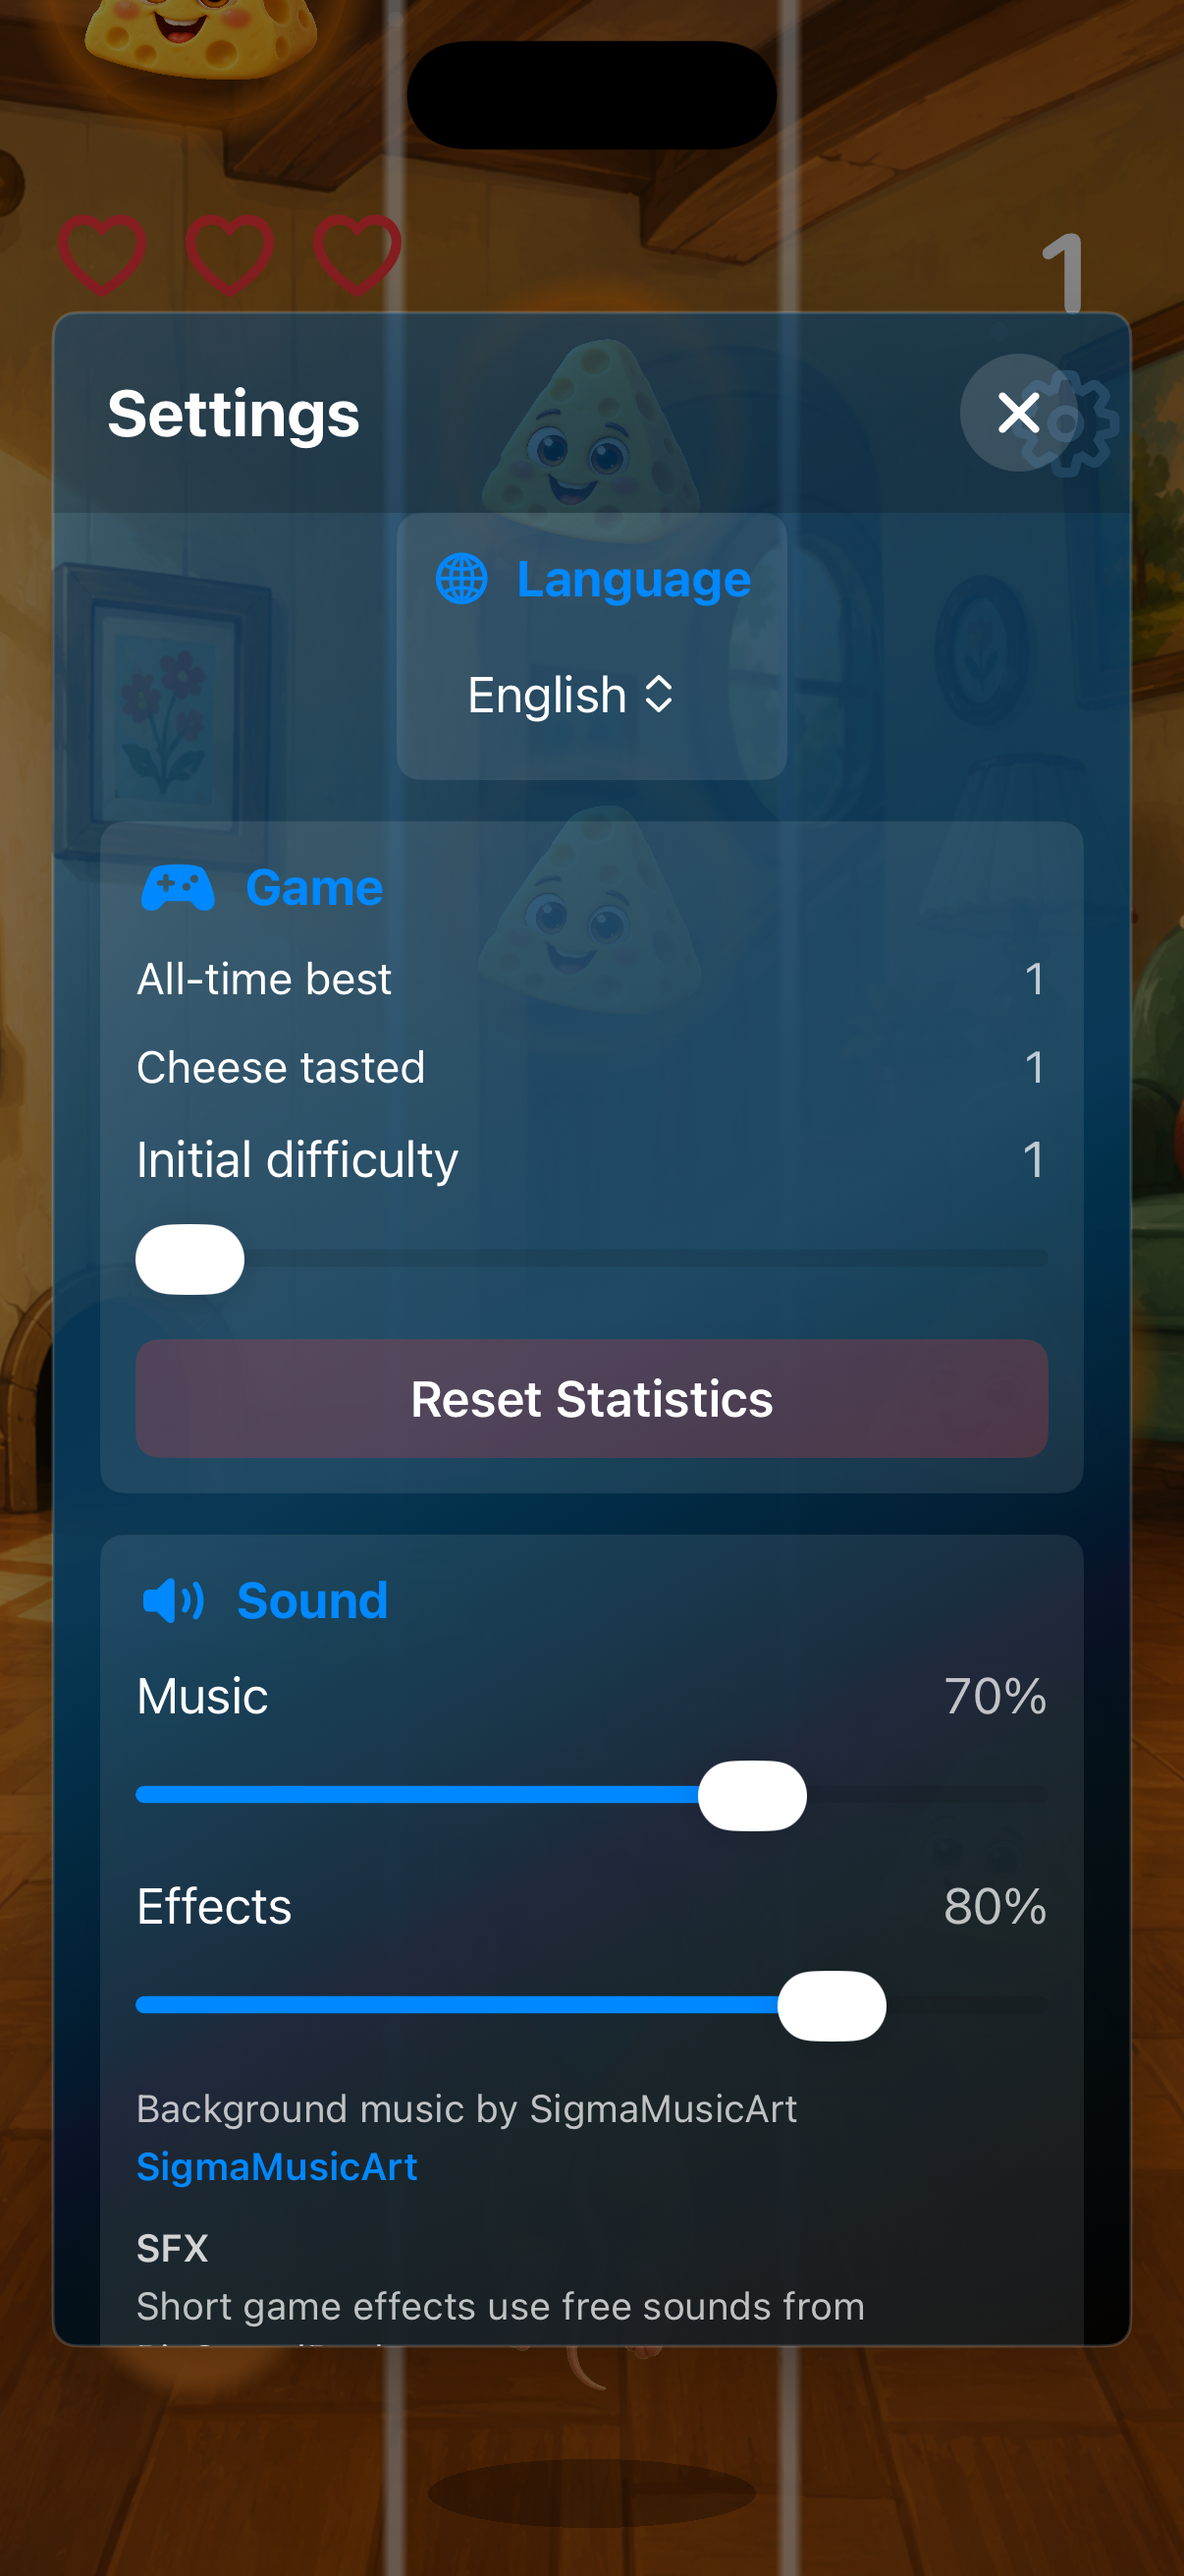
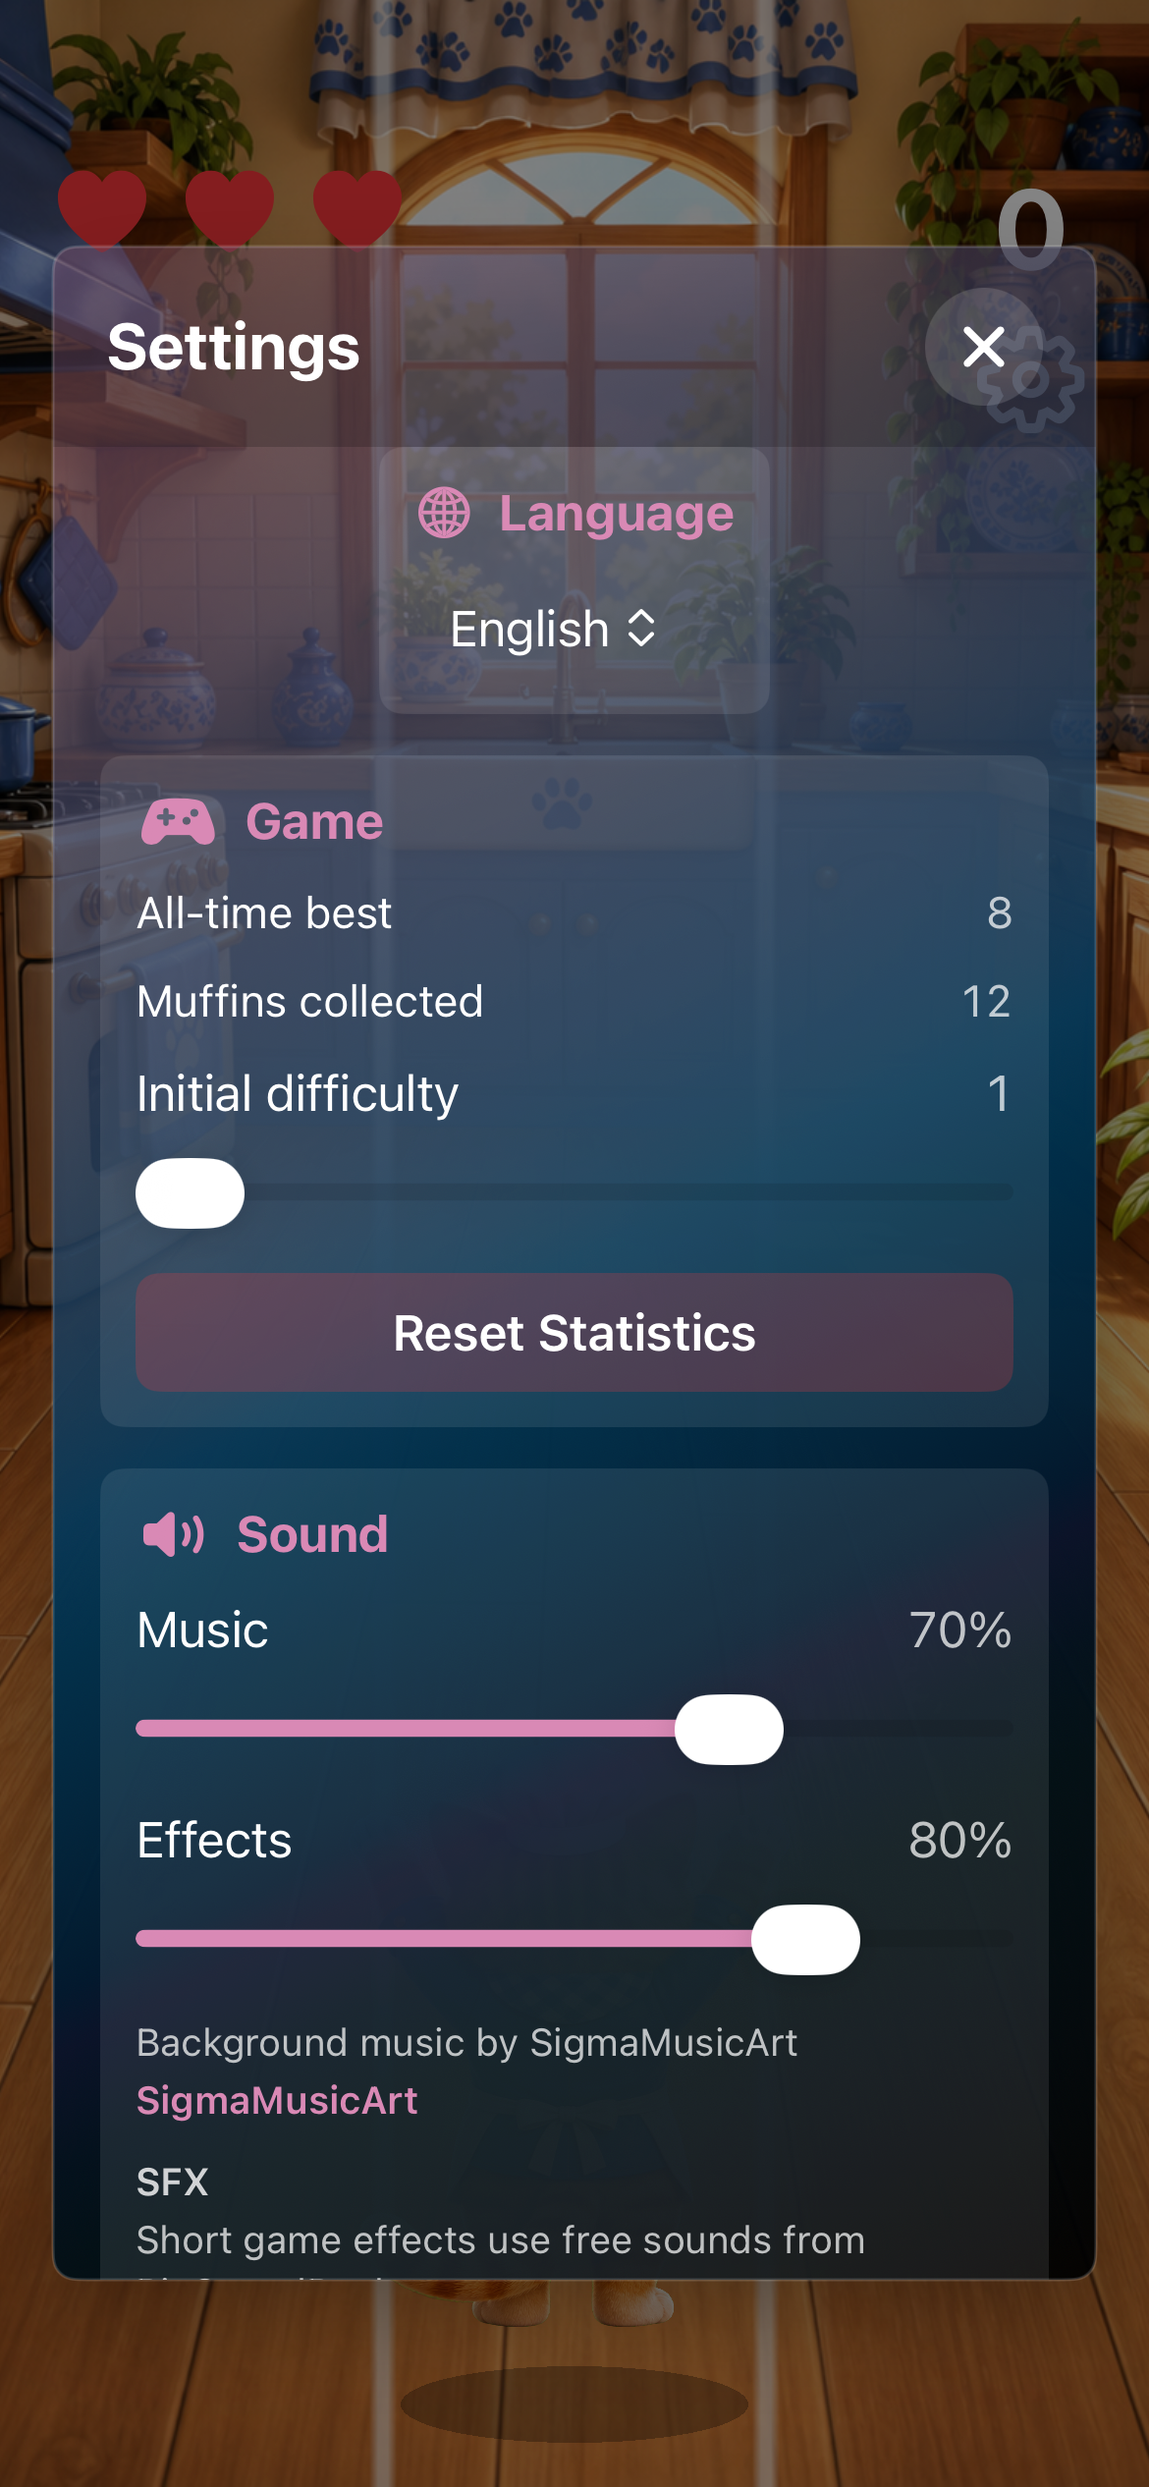
Refresh Simulator screenshots

diff --git a/index.html b/index.html
@@ -96,9 +96,9 @@
           <p>Маффін, свіжі мафіни, три доріжки та зручні налаштування — саме так Котик Маффін виглядає на iPhone.</p>
         </div>
         <div class="phone-gallery" aria-label="Скриншоти Котик Маффін">
-          <figure class="phone phone-tall"><div class="phone-screen"><img src="images/screenshot-splash.png?v=20260727-2" alt="Заставка Котик Маффін з Маффін" loading="lazy"></div><figcaption>Знайомство з Маффін</figcaption></figure>
-          <figure class="phone phone-center"><div class="phone-screen"><img src="images/screenshot-gameplay.png?v=20260727-3" alt="Ігровий раунд із мафінами на трьох доріжках" loading="lazy"></div><figcaption>Збирайте мафіни</figcaption></figure>
-          <figure class="phone phone-tall"><div class="phone-screen"><img src="images/screenshot-settings.png?v=20260727-3" alt="" loading="lazy"></div><figcaption>Усе під контролем</figcaption></figure>
+          <figure class="phone phone-tall"><div class="phone-screen"><img src="images/screenshot-splash.png?v=20260727-4" alt="Заставка Котик Маффін з Маффін" loading="lazy"></div><figcaption>Знайомство з Маффін</figcaption></figure>
+          <figure class="phone phone-center"><div class="phone-screen"><img src="images/screenshot-gameplay.png?v=20260727-4" alt="Ігровий раунд із мафінами на трьох доріжках" loading="lazy"></div><figcaption>Збирайте мафіни</figcaption></figure>
+          <figure class="phone phone-tall"><div class="phone-screen"><img src="images/screenshot-settings.png?v=20260727-4" alt="" loading="lazy"></div><figcaption>Усе під контролем</figcaption></figure>
         </div>
       </div>
     </section>
